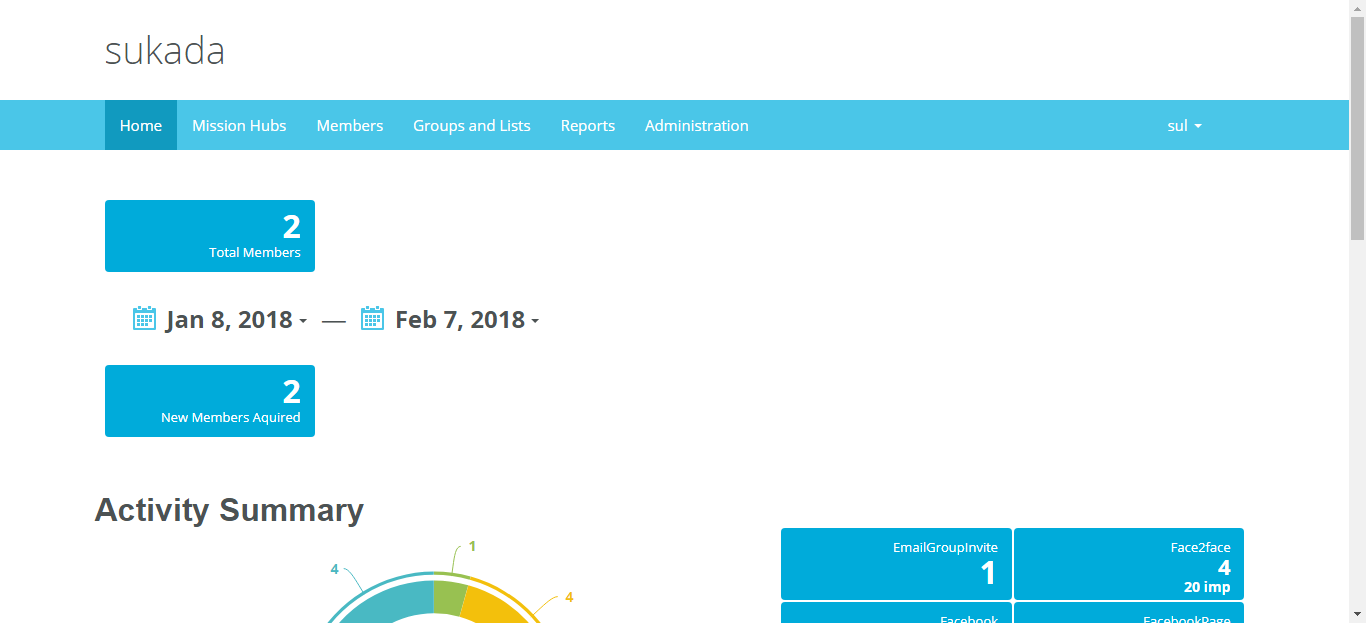
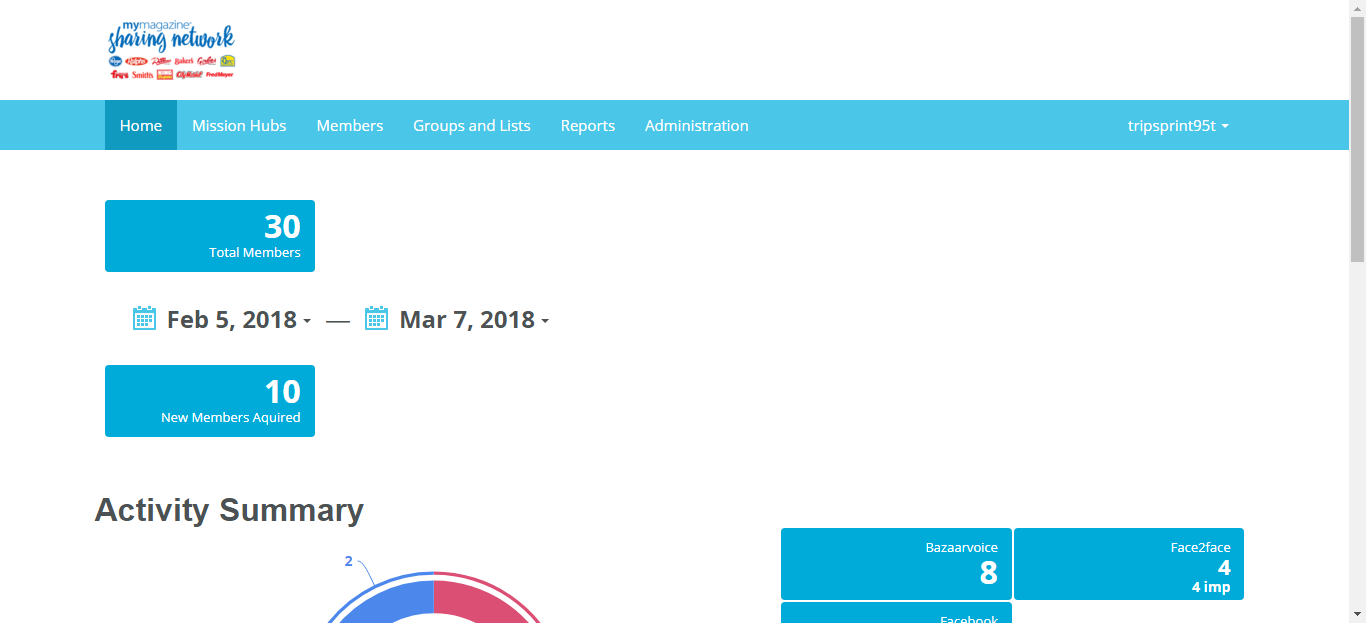
home page template 2 and verify

diff --git a/tests/globals.js b/tests/globals.js
@@ -1,27 +1,27 @@
 var userNames = {
   
-  memberURL: 'https://suksprint95.socialmedialink.com/',
-  memberEmail: 'sulp@yopmail.com',
-  memberPassword: 'general1234',
+  memberURL: 'https://tripsprint95t.staging.socialmedialink.com',
+  memberEmail: 'lolo@yopmail.com',
+  memberPassword: '12345678',
   memberFirstName: 'first',
   memberLastName: 'last',
   zipCode: '07093',
   birthDay: '10/10/1991',
-
-  sprint: '96a',
-  adminURL: 'https://admin-smiley.socialmedialink.com/',
-  adminEmail: 'sur@yopmail.com',
+  sprint: '95t',
+  adminURL: 'https://admin.staging.socialmedialink.com',
+  adminEmail: 'tripsprint95t@yopmail.com',
   adminPassword: 'General123$',
-  facebookEmail: 'sukada.testmember8@socialmedialink.com',
-  facebookPass: 'general1234',
-  twitterEmail: 'sukada.ramakrishna@socialmedialink.com',
+  facebookEmail: 'tripthishetty20@gmail.com',
+  facebookPass: 'qwerty$',
+  twitterEmail: 'tripthi.testmember15@socialmedialink.com',
   twitterPass: 'general1234',
-  instagramUserName: 'sukadar',
-  instagramPass: 'general1234',
-  superAdminEmail: 'sukada.ramakrishna@socialmedialink.com',
-  superAdminPass: 'General1234#',
+  instagramUserName: 'tripthi.shetty',
+  instagramPass: 'abcd1234',
+  superAdminEmail: 'tripthi.testmember3@socialmedialink.com',
+  superAdminPass: 'General123$',
   account_no: 667,
   path: 'C:/Users/you/Downloads/',
+  memberEmailFemale: 'leena@yopmail.com',
   darDate:"(//td[@class='day'])[27]",
   uin:'12448',
   pinterestUserName:'sukadamr',
@@ -33,20 +33,16 @@ var userNames = {
   caCity:'OTTAWA',
   postalCode:'K1A 0B1',
   memberNewEmail: 'sukrao14@yopmail.com',
-  memberNewPassword:'12345678',
-
-
-
- 
-   };
+  memberNewPassword:'12345678'
+    };
 var cbt = require('cbt_tunnels');
 
 module.exports = {
   beforeEach : function(done) {
     console.log('Starting up tunnel');
     cbt.start({
-      'username': 'sukada.ramakrishna@socialmedialink.com',
-      'authkey': 'u89e4efd851e17e7'
+      'username': 'tripthi.shetty@socialmedialink.com',
+      'authkey': 'u283c7d7d4fafeb7'
     }, function(err, data) {
       if (err) {
         done(err);

diff --git a/tests/Smoke/homePageRegression.js b/tests/Smoke/homePageRegression.js
@@ -44,7 +44,7 @@ var homePageTemplate1 = function(driver)
 	//click home page link
 	.click("//a[@href='/accounts/home_page']")
 	.pause(3000)
-	//click 
+	//click template 1
 	.click("(//ul[@class='homepage-layout']/li/label)[1]")
 	.pause(1000)
 	//add splash headline
@@ -163,12 +163,19 @@ var homePageTemplate1 = function(driver)
     .execute('scrollTo(4000,4000)')
     .saveScreenshot('screenshots/sprint'+driver.globals.userNames.sprimt+'/homePageTemplate1AdminSettings1.png')
     .pause(2000)
+    //logout
+    .click("//button[@class='topbar-menu-toggle test-nav-user']")
+    .pause(1000)
+    .click("//a[@class='test-nav-logout']")
+    .pause(2000)
+
 
 }
 var verifyMemberSideT1 = function(driver)
 {
 	driver
 	.useXpath()
+	//redirect to member side
 	.url(driver.globals.userNames.memberURL)
 	.pause(2000)
 	.saveScreenshot('screenshots/sprint'+driver.globals.userNames.sprimt+'/homePageTemplate1SplashHeadline.png')
@@ -196,15 +203,40 @@ var homePageTemplate2 = function(driver)
 {
 	driver
 	.useXpath()
-	.
+	//click administration
+	.click("(//a[@class='test-nav-config'])[2]")
+	.pause(3000)
+	//click home page link
+	.click("//a[@href='/accounts/home_page']")
+	.pause(3000)
+	//click template 2
+	.click("(//ul[@class='homepage-layout']/li/label)[2]")
+	.pause(1000)
+	.saveScreenshot('screenshots/sprint'+driver.globals.userNames.sprimt+'/homePageTemplate2.png')
+    .pause(2000)
+    //save
+	.execute('scrollTo(0,0)')
+	.pause(2000)
+	.click("//a[@class='btn btn-default']")
+	.pause(4000)
 }
-
+var verifyMemberSideT2 = function(driver)
+{
+	driver
+	.useXpath()
+	//redirect to member side
+	.url(driver.globals.userNames.memberURL)
+	.pause(2000)
+	.saveScreenshot('screenshots/sprint'+driver.globals.userNames.sprimt+'/homePageTemplate2.png')
+    .pause(2000)
+}
 module.exports =
 {
 	//downloadImages:downloadImages,
 	//signInAdmin: modulecreateSurvey.signIn,
 //homePageTemplate1: homePageTemplate1,
 //verifyMemberSideT1: verifyMemberSide,
+signInAdmin2: modulecreateSurvey.signIn,
 homePageTemplate2: homePageTemplate2,
 verifyMemberSideT2: verifyMemberSideT2
 

diff --git a/nightwatch.js b/nightwatch.js
@@ -1,1 +1,1 @@
-require('/Users/Sukad/Desktop/Nightwatch/nightwatch/bin/runner.js');
+require('/Users/tripthi/Desktop/Nightwatch/nightwatch/bin/runner.js');
